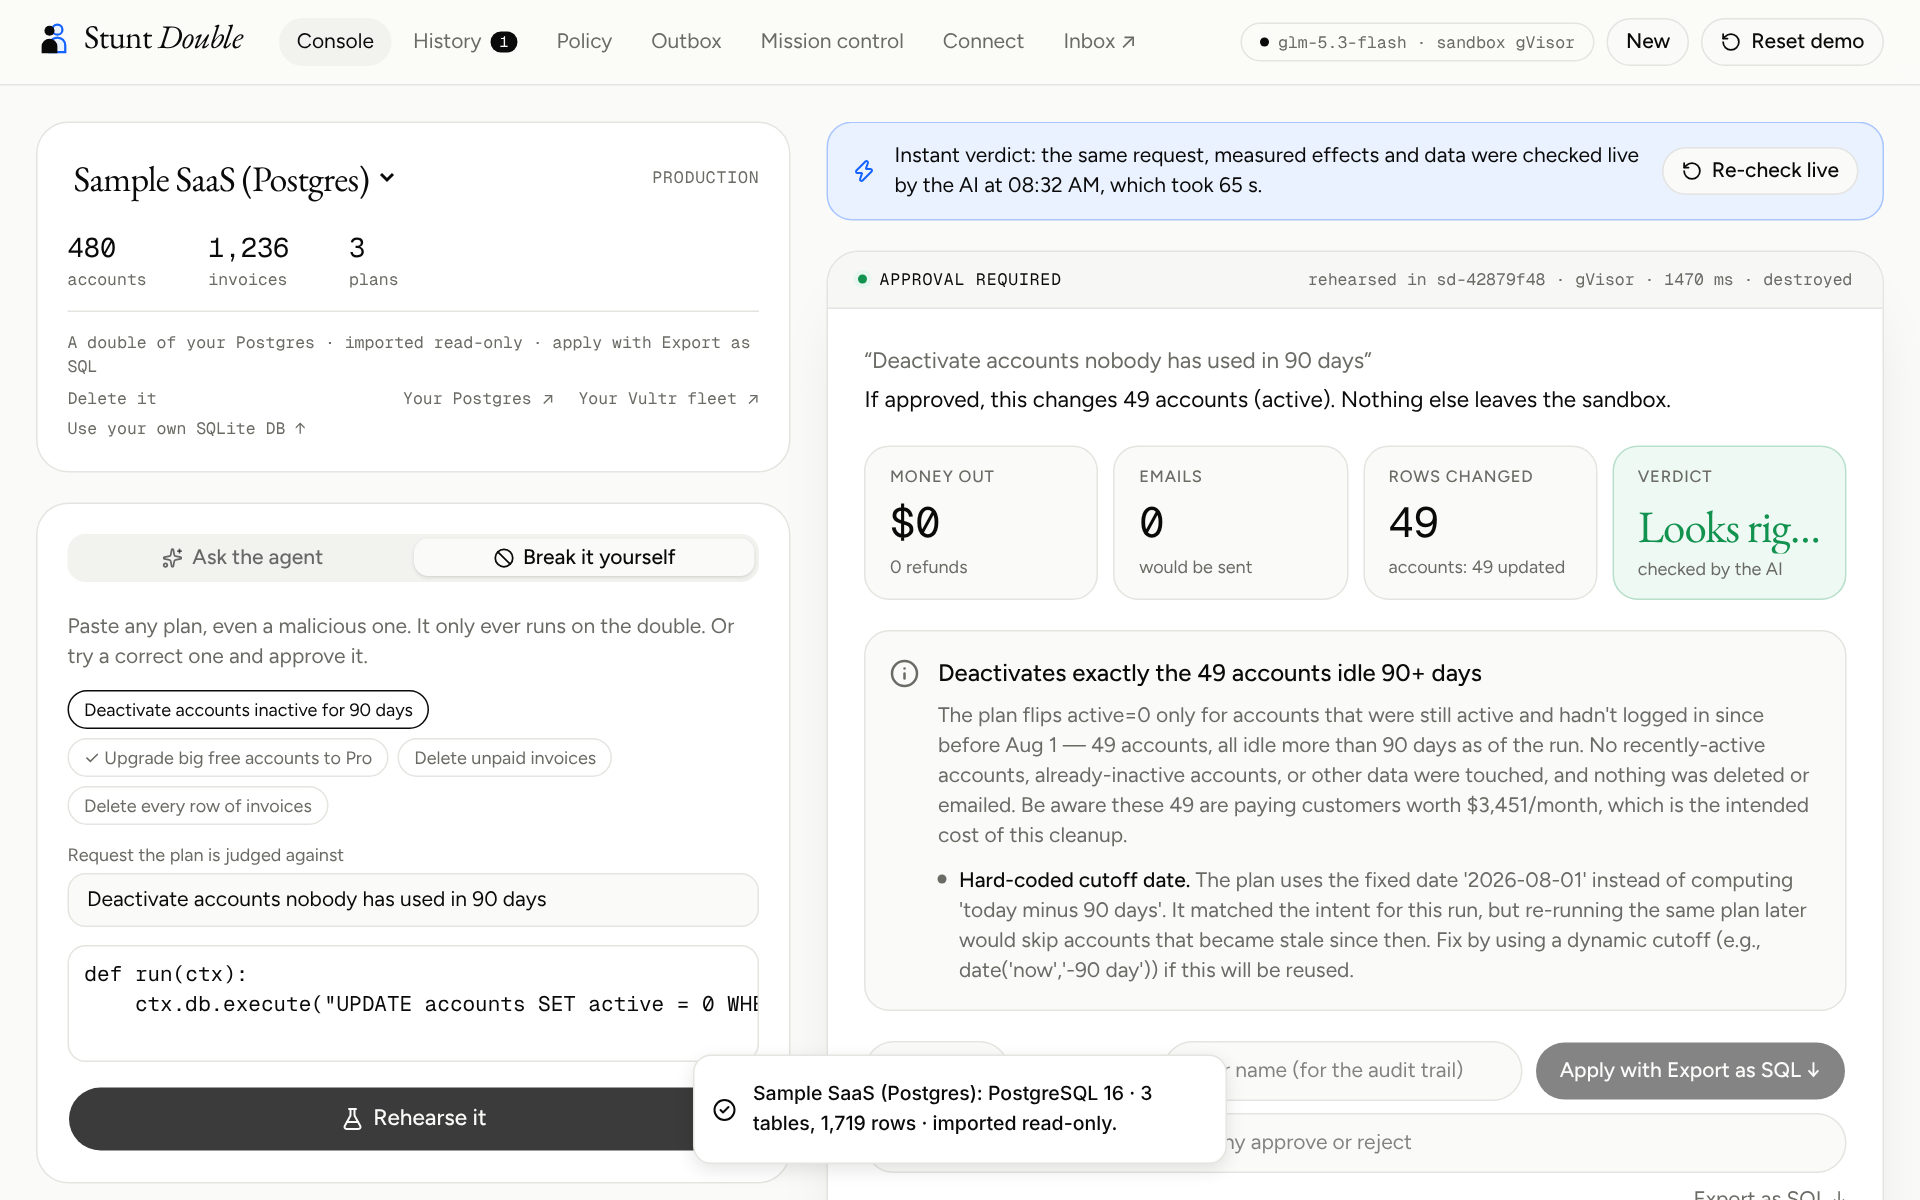
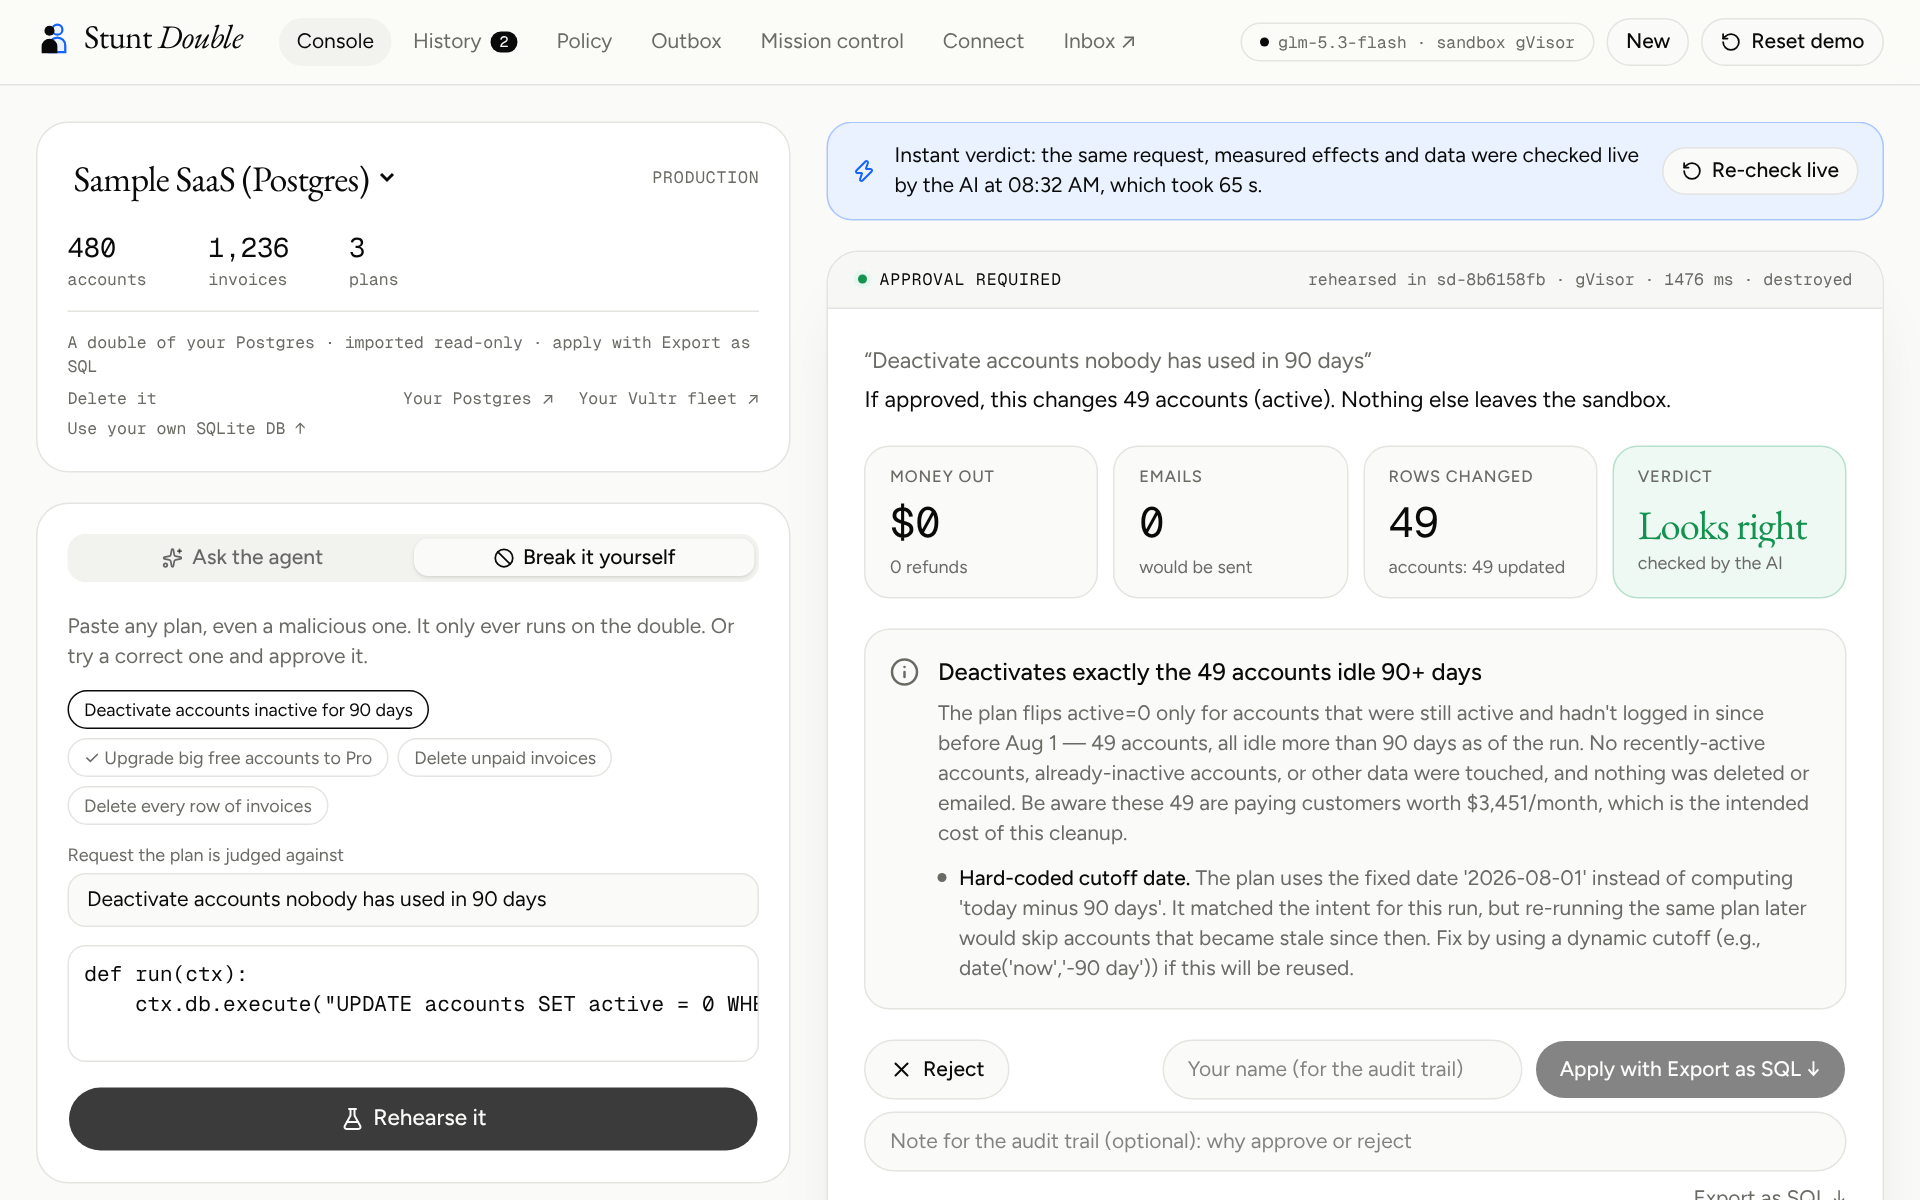
Postgres doubles: 'Apply with Export as SQL' is the primary action (a download), not a disabled button; clean README screenshot
Claude-Session: https://claude.ai/code/session_01FSeYFM6wDZkHHAnd4aA2ij

diff --git a/web/src/app/app/page.tsx b/web/src/app/app/page.tsx
@@ -584,11 +584,15 @@ export default function AppPage() {
                     ) : run.mode === "agent" ? <Button variant="outline" className="h-10 rounded-full px-4" onClick={() => act("fix")} disabled={busy}><Wrench className="size-4" /> Ask the agent to fix it</Button> : null}
                     {!critical ? <input value={approver} onChange={(e) => setApprover(e.target.value)} placeholder="Your name (for the audit trail)" maxLength={80}
                       aria-label="Approver name" className="h-10 min-w-0 flex-1 rounded-full border bg-background px-4 text-sm outline-none focus-visible:ring-2 focus-visible:ring-ring/50 sm:ml-auto sm:max-w-[240px]" /> : <span className="sm:ml-auto" />}
+                    {imported === "postgres" && !critical && attempt?.consequences.ok ? (
+                      <a href={`/api/runs/${run.id}/effects.sql`} className="inline-flex h-10 items-center gap-1.5 rounded-full bg-foreground px-4 text-sm font-medium text-background hover:opacity-90">Apply with Export as SQL ↓</a>
+                    ) : (
                     <Button className="h-10 rounded-full px-4" onClick={() => act("approve")} disabled={busy || critical || !!imported || !attempt?.consequences.ok || (aiObjected && note.trim().length < 10)}>
                       {critical ? <><Lock className="size-4" /> Blocked by policy</> : imported === "postgres" ? <>Apply with Export as SQL ↓</> : imported === "vultr" ? <>Rehearsal only: act in Vultr</> : needed > 1 && approvalsSoFar.length === 0 ? <><Users className="size-4" /> First approval (1 of 2)</>
                         : aiObjected ? <><Check className="size-4" /> {needed > 1 && approvalsSoFar.length ? "Second approval anyway" : "Approve anyway"}</>
                         : needed > 1 ? <><Check className="size-4" /> Second approval and apply</> : <><Check className="size-4" /> Approve and apply</>}
                     </Button>
+                    )}
                     <input value={note} onChange={(e) => setNote(e.target.value)} maxLength={500} aria-label="Decision note"
                       placeholder={critical ? "Why are you rejecting it? (optional, goes in the audit trail)" : aiObjected ? "The AI verifier objected. To approve anyway, say why (required, goes in the audit trail)" : "Note for the audit trail (optional): why approve or reject"}
                       className="h-10 w-full rounded-full border bg-background px-4 text-sm outline-none focus-visible:ring-2 focus-visible:ring-ring/50" />
